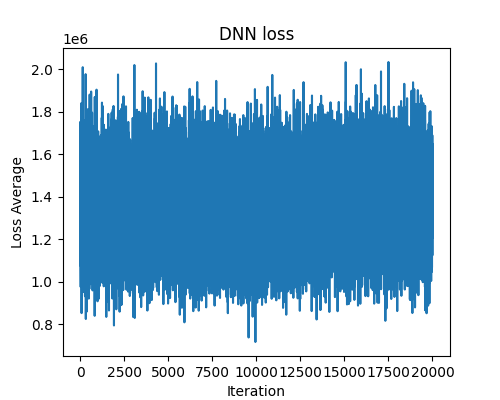
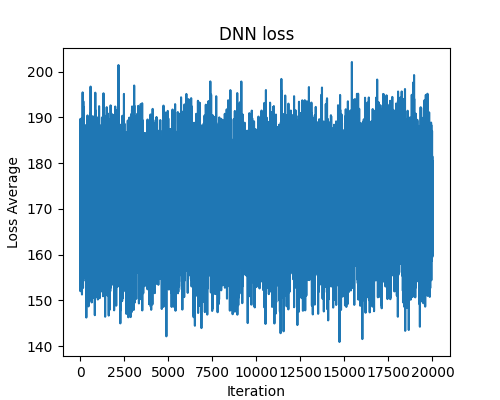
temporary push

diff --git a/Algorithms/dnn.py b/Algorithms/dnn.py
@@ -147,7 +147,7 @@ class DNN(NetworkABC):
 
         # 순전파
         h = self.forward(x, y)
-        cost = self.cost(h, y) / self.batch_size
+        cost = self.cost(h, y)
 
         # 역전파
         dout = self.layer_last.backward(1)
@@ -273,7 +273,14 @@ class SoftmaxWithLoss(Module):
 
     @staticmethod
     def cross_entropy_err(h, y):
-        return -np.sum(y * np.log(h + 1e-7))
+        # return -np.sum(y * np.log(h + 1e-7))
+        if h.ndim == 1:
+            h = h.reshape(1, h.size)
+            y = y.reshape(1, y.size)
+
+        size = h.shape[0]
+
+        return -np.sum(y*np.log(h + 1e-7))/size
 
     @staticmethod
     def softmax(x):

diff --git a/Algorithms/knn.py b/Algorithms/knn.py
@@ -45,7 +45,7 @@ class KNN(NetworkABC):
             p: point
 
         Returns:
-            List of (class, distance).
+            List of (class, distance)
         """
 
         # pair (target, distance) for each trained point against given point.
